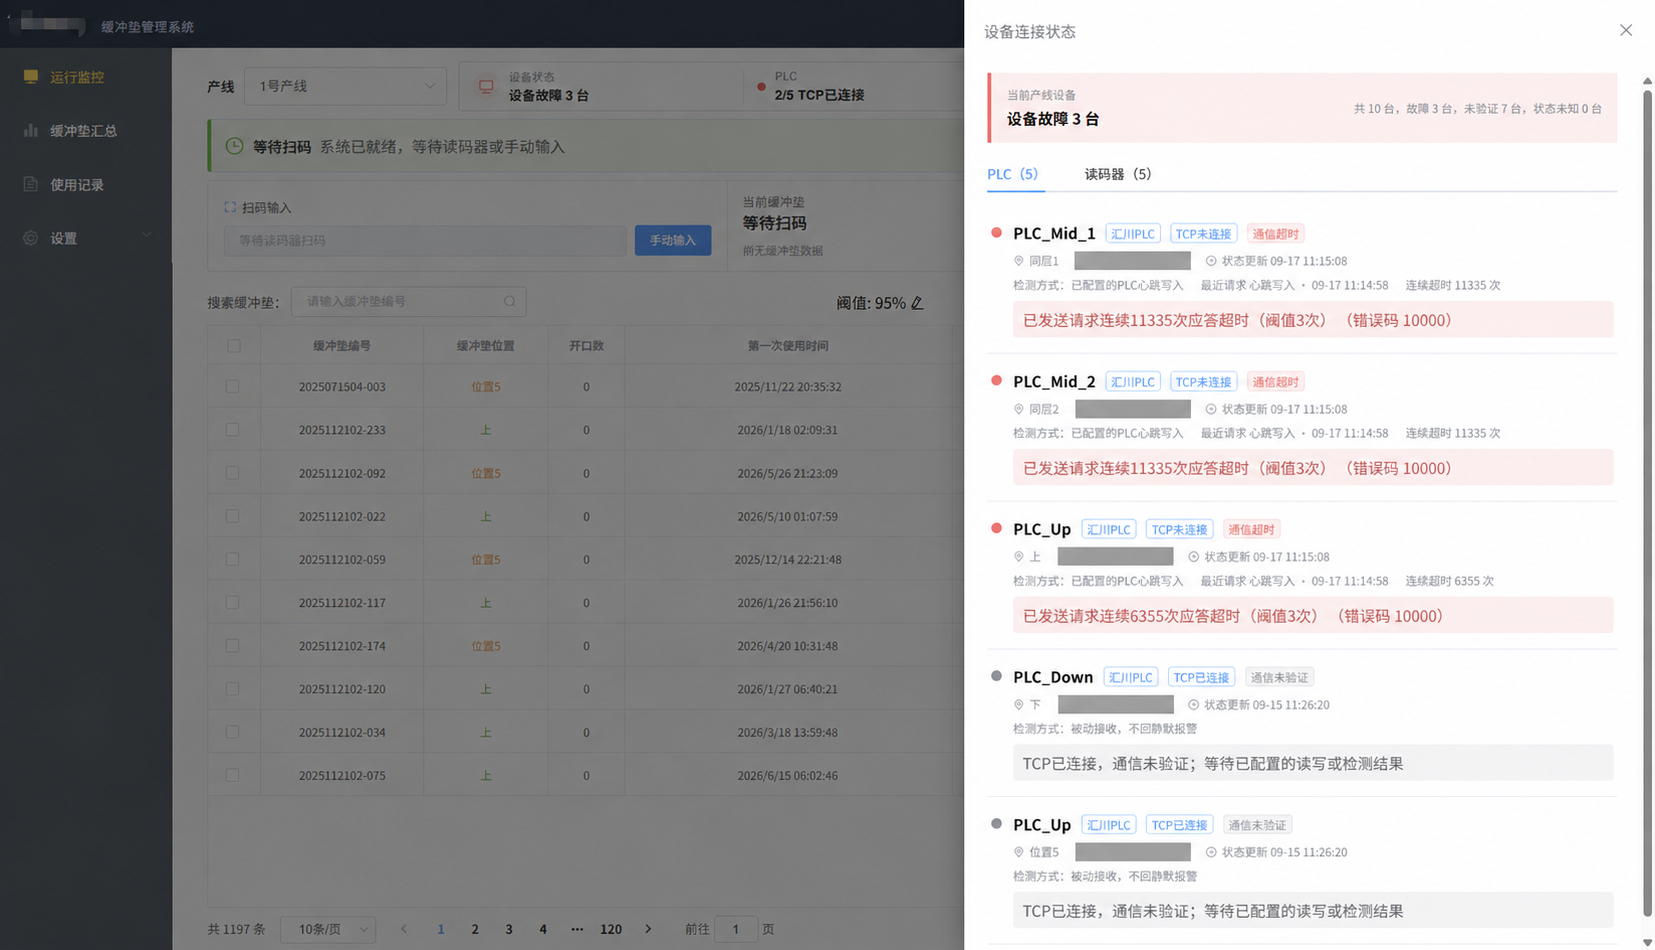
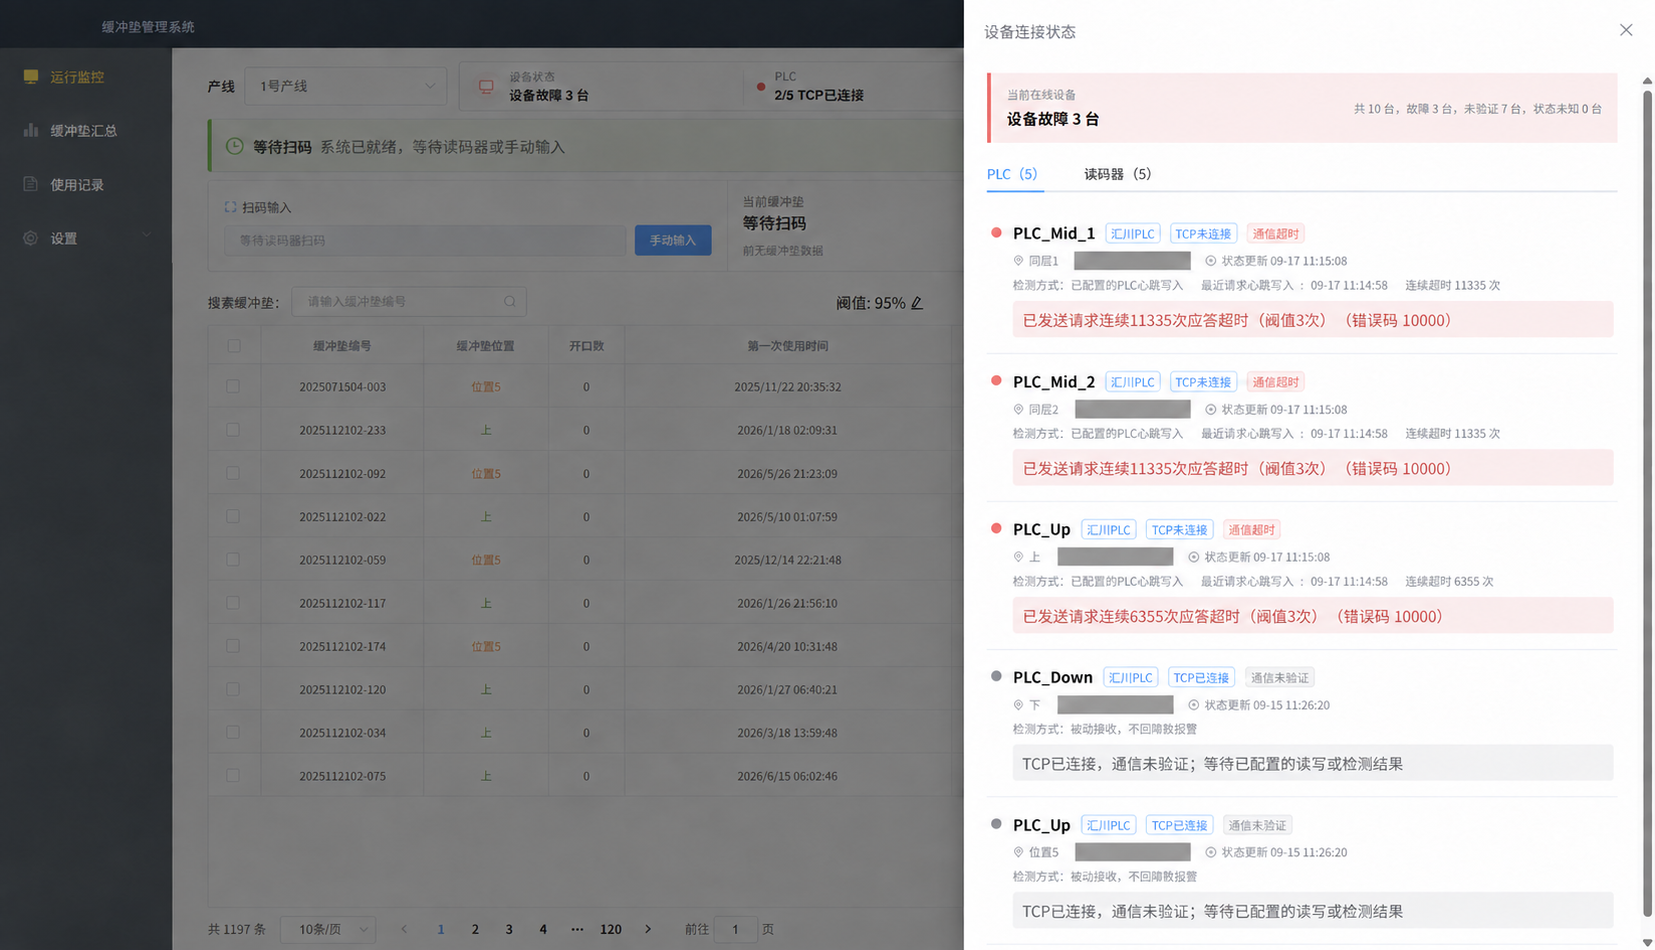
Remove former company branding from UI and product screenshots

diff --git a/bufferpad/src/components/Appheader.vue b/bufferpad/src/components/Appheader.vue
@@ -1,6 +1,6 @@
 <template>
   <header class="app-header">
-    <strong>TOPRO <span>缓冲垫管理系统</span></strong>
+    <strong>缓冲垫管理系统</strong>
     <div v-if="user" class="account-actions">
       <span>{{ user.username }}</span>
       <el-tag size="mini" :type="$isAdmin ? 'warning' : 'info'">{{ user.builtIn ? '超级管理员' : ($isAdmin ? '管理员' : '普通用户 · 只读') }}</el-tag>
@@ -33,7 +33,6 @@ export default {
 <style scoped>
 .app-header { position:absolute; top:0; left:0; right:0; height:50px; padding:0 20px; background:#2d3a4b; color:white; display:flex; align-items:center; justify-content:space-between; box-sizing:border-box; }
 .app-header strong { font-size:18px; letter-spacing:1px; }
-.app-header strong span { font-size:13px; font-weight:normal; margin-left:12px; color:#c6d2e1; }
 .account-actions { display:flex; align-items:center; gap:14px; font-size:14px; }
 .account-actions .el-button { color:#e2ebf7; margin-left:0; }
 </style>

diff --git a/bufferpad/src/views/auth/ChangePassword.vue b/bufferpad/src/views/auth/ChangePassword.vue
@@ -1,6 +1,6 @@
 <template>
   <main class="auth-screen"><section class="auth-card">
-    <div class="brand">TOPRO / 账户设置</div><h1>修改密码</h1>
+    <div class="brand">BUFFERPAD / 账户设置</div><h1>修改密码</h1>
     <p class="subtitle">{{ forced ? '密码已被重置，请设置新密码后使用系统。' : '修改后，所有设备上的登录都会失效，请使用新密码重新登录。' }}</p>
     <el-form ref="form" :model="form" :rules="rules" label-position="top" @submit.native.prevent="submit">
       <el-form-item label="原密码" prop="oldPassword"><el-input v-model="form.oldPassword" type="password" show-password autocomplete="current-password" maxlength="64" /></el-form-item>

diff --git a/bufferpad/src/views/auth/Login.vue b/bufferpad/src/views/auth/Login.vue
@@ -1,6 +1,6 @@
 <template>
   <main class="auth-screen"><section class="auth-card">
-    <div class="brand">TOPRO / BUFFERPAD</div><h1>登录缓冲垫管理系统</h1>
+    <div class="brand">BUFFERPAD</div><h1>登录缓冲垫管理系统</h1>
     <p class="subtitle">查看产线运行状态，管理缓冲垫使用与设备配置。</p>
     <el-form ref="form" :model="form" :rules="rules" label-position="top" @submit.native.prevent="submit">
       <el-form-item label="用户名" prop="username"><el-input v-model="form.username" autocomplete="username" maxlength="32" placeholder="请输入用户名" autofocus /></el-form-item>

diff --git a/README.en.md b/README.en.md
@@ -18,7 +18,7 @@ The monitor brings device status, scan state, usage counts, and lifetime limits 
 |---|---|
 | ![PLC status with deployment addresses covered](docs/images/plc-status.png) | ![Scanner status with deployment addresses covered](docs/images/scanner-status.png) |
 
-These maintainer-supplied screenshots show recorded states, not a live demo. Deployment addresses are covered in the public copies. A connected TCP socket does not prove successful PLC operations; passive scanners can wait without incoming data. See the [illustrated tour (Chinese)](docs/product-tour.md).
+These maintainer-supplied screenshots show recorded states, not a live demo. Deployment addresses are covered and former company branding is removed in the public copies. A connected TCP socket does not prove successful PLC operations; passive scanners can wait without incoming data. See the [illustrated tour (Chinese)](docs/product-tour.md).
 
 ## Capabilities
 

diff --git a/docs/product-tour.md b/docs/product-tour.md
@@ -4,7 +4,7 @@
 
 BufferPad 面向使用可重复利用缓冲垫的制造现场：扫描编号、记录使用次数、根据寿命阈值提示，并与已配置的 PLC 联动。下面展示运行监控与设备诊断界面，不需要先安装软件即可了解操作方式。
 
-截图由维护者提供，保留拍摄时的数据和状态；现场地址在公开副本中遮盖。截图不是实时演示，也不构成特定设备型号已通过验收的声明。
+截图由维护者提供，保留拍摄时的数据和状态；公开副本遮盖现场地址并移除旧企业标识。截图不是实时演示，也不构成特定设备型号已通过验收的声明。
 
 ## 1. 运行监控与寿命查询
 

diff --git a/CHANGELOG.md b/CHANGELOG.md
@@ -4,7 +4,7 @@ This log describes public releases. Earlier development history is retained in G
 
 ## Unreleased
 
-No additional changes recorded yet.
+- Remove former company branding from the application header, authentication screens, and documentation screenshots. Business behavior is unchanged.
 
 ## 0.1.1 — 2026-09-17
 
